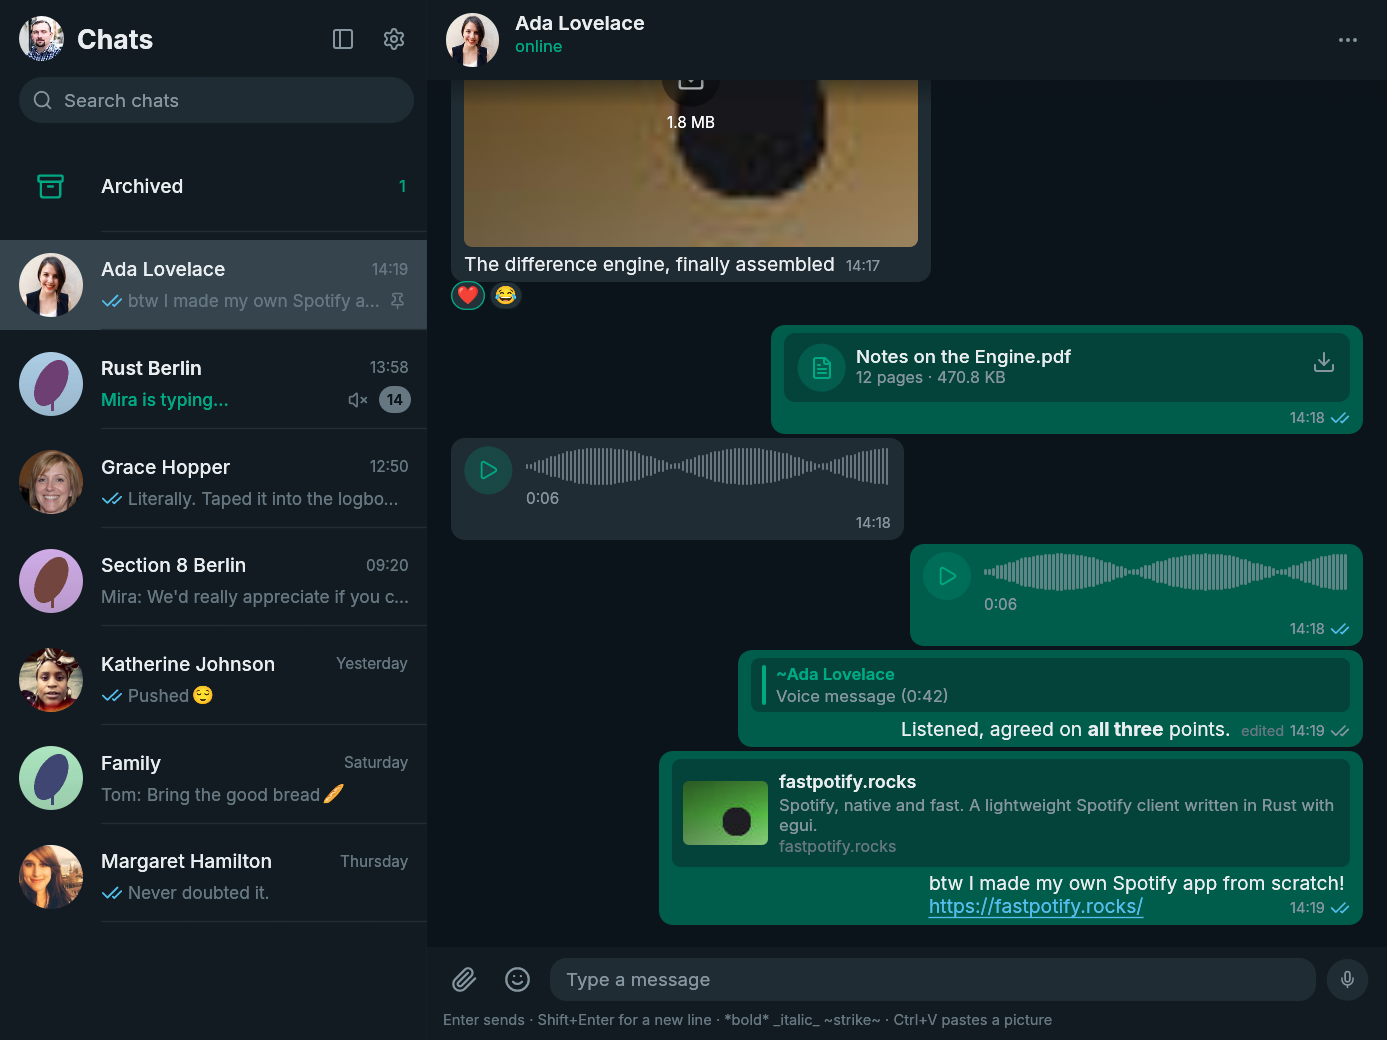
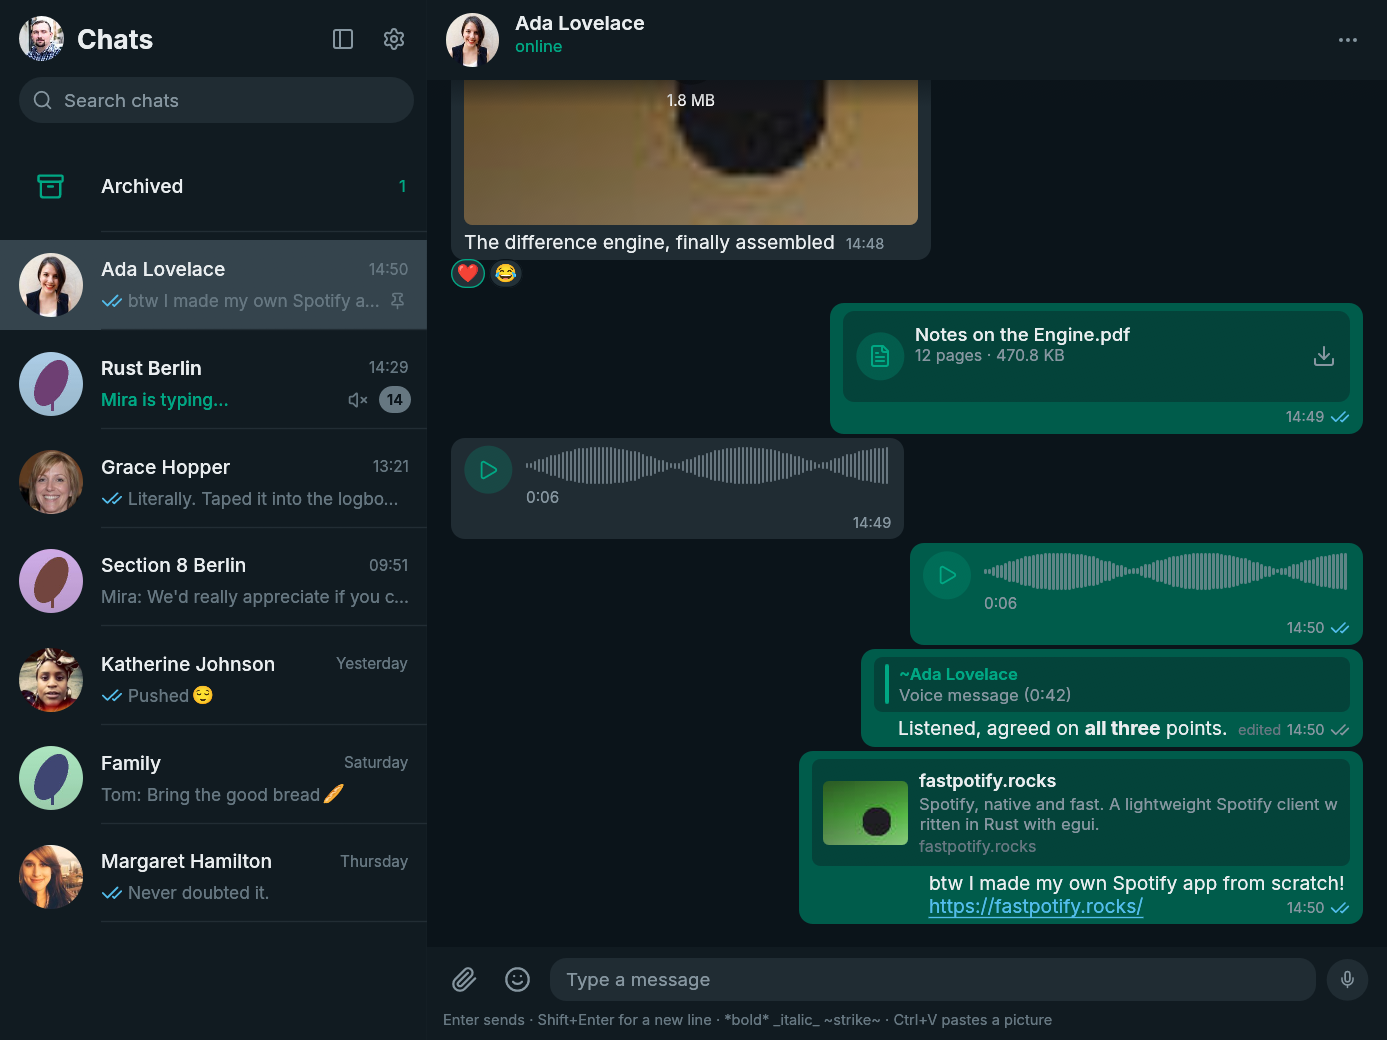
Bubbles size like the phone's
The sizing rules, finally held everywhere: a reply's quote strip and
its message are one unit, the wider of the two setting a shared width
they both span from the same left edge, the bar always at the strip's
left and the clock at the bubble's right. Document cards keep a hard
maximum, with their row allocated at exactly the card's width; the
flipped row own bubbles get had let the column ignore its width and
swallow the leftover space, which is where the giant half-empty cards
came from. A link message takes its width from its text, and the card
dresses it, text reading from the left. Huge pasted pictures no longer
overflow the GPU's texture limit. A widths probe test prints the
numbers instead of anyone guessing at pixels again.

diff --git a/src/ui/conversation.rs b/src/ui/conversation.rs
@@ -1282,11 +1282,27 @@ fn bubble_frame(
                     },
                 );
             }
-            if let Some(quoted) = &message.quoted {
-                quote_block(ui, view, message, quoted, actions);
-            }
-            let reserve = footer_width(ui, message);
-            let slot = content(ui, view, message, max_width - 20.0, reserve, actions);
+            // A quote strip and the reply under it anchor to the same left
+            // edge and share their width, as on the phone; an own bubble
+            // would otherwise right-align the strip, left-align the body,
+            // and stretch to their offset union. The footer stays outside,
+            // keeping its right edge.
+            // The strip and the reply share one width, the wider of the
+            // two (capped), the way the phone draws them; the reply's own
+            // row spans that full width with its text at the left, so no
+            // alignment fight can arise (see rich_body).
+            let slot = if let Some(quoted) = &message.quoted {
+                let available = ui.available_width();
+                let strip = quote_strip_width(ui, view, quoted);
+                let hint = quoted_content_width(ui, view, message, available);
+                let width = strip.max(hint).clamp(140.0, available.min(420.0));
+                quote_block(ui, view, message, quoted, width, actions);
+                let reserve = footer_width(ui, message);
+                content(ui, view, message, width, reserve, actions)
+            } else {
+                let reserve = footer_width(ui, message);
+                content(ui, view, message, max_width - 20.0, reserve, actions)
+            };
             footer(ui, &palette, message, slot);
         });
     ui.ctx()
@@ -1338,15 +1354,125 @@ fn bubble_frame(
     inner.response
 }
 
+/// How wide the message's own content will draw, so the quote strip above
+/// it can span the bubble the way WhatsApp draws it: as wide as the wider
+/// of the two, never a floating box narrower than the reply.
+fn quoted_content_width(ui: &egui::Ui, view: &View<'_>, message: &Message, available: f32) -> f32 {
+    let palette = view.palette;
+    let text = match &message.content {
+        Content::Text { text, .. } => Some(text),
+        Content::Image {
+            caption: Some(caption),
+            ..
+        }
+        | Content::Video {
+            caption: Some(caption),
+            ..
+        }
+        | Content::Document {
+            caption: Some(caption),
+            ..
+        } => Some(caption),
+        _ => None,
+    };
+    match (&message.content, text) {
+        (_, Some(text)) => {
+            let style = markup::Style {
+                size: BODY_SIZE,
+                color: palette.text,
+                secondary: palette.secondary,
+                link: palette.link,
+                mention: palette.accent,
+            };
+            let laid = markup::layout(ui, text, &mentions_of(view, message), &style, available);
+            let widest = laid
+                .galley
+                .rows
+                .iter()
+                .map(|row| row.row.size.x)
+                .fold(0.0, f32::max);
+            // The bubble also holds the clock beside the last line when it
+            // fits; the strip has to count that room too, or it comes up
+            // short by exactly the clock.
+            let last = laid.galley.rows.last().map_or(0.0, |row| row.row.size.x);
+            let reserve = footer_width(ui, message);
+            if last + 8.0 + reserve <= available {
+                widest.max(last + 8.0 + reserve)
+            } else {
+                widest
+            }
+        }
+        (Content::Audio { .. }, None) => available.clamp(220.0, 320.0),
+        (Content::Document { .. }, None) => available.clamp(200.0, 360.0),
+        _ => available.min(300.0),
+    }
+}
+
+/// The width a link message's bubble settles on: its own text rows (with
+/// the clock beside the last, when it fits), within the card's bounds.
+fn link_bubble_width(
+    ui: &egui::Ui,
+    view: &View<'_>,
+    message: &Message,
+    text: &str,
+    max: f32,
+    reserve: f32,
+) -> f32 {
+    let palette = view.palette;
+    let style = markup::Style {
+        size: BODY_SIZE,
+        color: palette.text,
+        secondary: palette.secondary,
+        link: palette.link,
+        mention: palette.accent,
+    };
+    let laid = markup::layout(ui, text, &mentions_of(view, message), &style, max);
+    let widest = laid
+        .galley
+        .rows
+        .iter()
+        .map(|row| row.row.size.x)
+        .fold(0.0, f32::max);
+    let last = laid.galley.rows.last().map_or(0.0, |row| row.row.size.x);
+    let with_clock = if last + 8.0 + reserve <= max {
+        widest.max(last + 8.0 + reserve)
+    } else {
+        widest
+    };
+    with_clock.clamp(200.0, max)
+}
+
+/// The width the quote strip's two lines ask for by themselves.
+fn quote_strip_width(ui: &egui::Ui, view: &View<'_>, quoted: &crate::model::Quoted) -> f32 {
+    let palette = view.palette;
+    let who = if view.me == Some(quoted.sender.as_str()) {
+        "You".to_owned()
+    } else {
+        (view.names_or)(&quoted.sender, quoted.sender_name.as_deref())
+    };
+    let summary = markup::plain(&quoted.summary, &quote_mentions(view, quoted));
+    let name_width = ui
+        .painter()
+        .layout_no_wrap(who, theme::semibold(12.5), palette.accent)
+        .size()
+        .x;
+    let summary_width = ui
+        .painter()
+        .layout_no_wrap(summary, theme::regular(12.5), palette.secondary)
+        .size()
+        .x;
+    name_width.max(summary_width) + 17.0
+}
+
 fn quote_block(
     ui: &mut egui::Ui,
     view: &View<'_>,
     message: &Message,
     quoted: &crate::model::Quoted,
+    width: f32,
     actions: &mut Vec<Action>,
 ) {
     let palette = view.palette;
-    let own = message.from_me;
     let who = if view.me == Some(quoted.sender.as_str()) {
         "You".to_owned()
     } else {
@@ -1363,7 +1489,7 @@ fn quote_block(
             bottom: 5,
         })
         .show(ui, |ui| {
-            ui.set_width(ui.available_width().min(420.0));
+            ui.set_width(width);
             let bar = |ui: &mut egui::Ui| {
                 let (bar, _) = ui.allocate_exact_size(vec2(3.0, 30.0), Sense::hover());
                 ui.painter().rect_filled(bar, 2.0, palette.accent);
@@ -1376,7 +1502,12 @@ fn quote_block(
                     widgets::rich_text(ui, &summary, theme::regular(12.5), palette.secondary);
                 });
             };
-            mirrored_row(ui, own, bar, body);
+            // The bar sits at the strip's left in both bubble kinds; own
+            // bubbles right-align and would flip a plain horizontal row.
+            ui.with_layout(Layout::left_to_right(egui::Align::Center), |ui| {
+                bar(ui);
+                body(ui);
+            });
         })
         .response;
     let response = ui
@@ -1723,7 +1854,10 @@ fn content(
     match &message.content {
         Content::Text { text, preview } => {
             if let Some(preview) = preview {
-                preview_card(ui, view, message, preview, width, actions);
+                // The card spans the text's width, as the phone draws it:
+                // the words set the bubble, the card dresses it.
+                let card = link_bubble_width(ui, view, message, text, width, reserve);
+                preview_card(ui, view, message, preview, card, actions);
             }
             rich_body(ui, view, message, text, width, Some(reserve), actions)
         }
@@ -1920,10 +2054,31 @@ fn rich_body(
     let size = laid.galley.size();
     let last_row = laid.galley.rows.last().map_or(0.0, |row| row.row.size.x);
     let inline = reserve.filter(|reserve| last_row + 8.0 + reserve <= width);
-    let allocation = match inline {
+    let mut allocation = match inline {
         Some(reserve) => vec2(size.x.max(last_row + 8.0 + reserve), size.y),
         None => size,
     };
+    if message.quoted.is_some() {
+        // The reply spans the strip's width, text anchored left (the
+        // galley paints from the allocation's start).
+        allocation.x = allocation.x.max(width);
+    } else if matches!(
+        &message.content,
+        Content::Text {
+            preview: Some(_),
+            ..
+        }
+    ) {
+        // Text under a link card spans the card's width the same way.
+        allocation.x = allocation.x.max(link_bubble_width(
+            ui,
+            view,
+            message,
+            text,
+            width,
+            reserve.unwrap_or(0.0),
+        ));
+    }
     // Remembered for the frame: a copy that runs across messages gets
     // each one's clock, date, and writer put back (see `transcript`).
     view.copy_rows
@@ -2450,13 +2605,14 @@ fn attachment(
     actions: &mut Vec<Action>,
 ) {
     let palette = view.palette;
-    let own = message.from_me;
     let response = Frame::new()
         .fill(palette.window.gamma_multiply(0.35))
         .corner_radius(CornerRadius::same(8))
         .inner_margin(Margin::symmetric(10, 8))
         .show(ui, |ui| {
-            ui.set_width(ui.available_width().clamp(200.0, 360.0));
+            let card = ui.available_width().clamp(200.0, 360.0);
+            ui.set_width(card);
+
             let disc = |ui: &mut egui::Ui| {
                 let (disc, _) = ui.allocate_exact_size(Vec2::splat(36.0), Sense::hover());
                 ui.painter().circle_filled(
@@ -2480,7 +2636,9 @@ fn attachment(
             let column = |ui: &mut egui::Ui| {
                 ui.vertical(|ui| {
                     ui.spacing_mut().item_spacing.y = 1.0;
-                    ui.set_width(ui.available_width() - 34.0);
+                    // The disc, the action icon, and two gaps take 70; the
+                    // words get exactly the rest of the card.
+                    ui.set_width(card - 70.0);
                     widgets::rich_text(ui, title, theme::medium(14.0), palette.text);
                     let detail = match &media.state {
                         MediaState::Failed(error) => format!("{error} · click to retry"),
@@ -2489,17 +2647,18 @@ fn attachment(
                     theme::text(ui, detail, theme::regular(12.0), palette.secondary);
                 });
             };
-            ui.horizontal(|ui| {
-                if own {
-                    action(ui);
-                    column(ui);
+            // A fixed left-to-right row at exactly the card's width: the
+            // flipped row own bubbles get otherwise lets the column ignore
+            // its width and swallow the leftover space.
+            ui.allocate_ui_with_layout(
+                vec2(card, 52.0),
+                Layout::left_to_right(egui::Align::Center),
+                |ui| {
                     disc(ui);
-                } else {
-                    disc(ui);
                     column(ui);
                     action(ui);
-                }
-            });
+                },
+            );
         })
         .response;
     let auto = ui.is_rect_visible(response.rect)
@@ -2513,6 +2672,12 @@ fn attachment(
             message: message.id.clone(),
         });
     }
+    ui.ctx().data_mut(|data| {
+        data.insert_temp(
+            bubble_id(&view.chat.id, &message.id).with("card"),
+            response.rect,
+        );
+    });
     let response = ui
         .interact(
             response.rect,
@@ -2911,9 +3076,40 @@ fn pending_strip(app: &mut App, ui: &mut egui::Ui) {
                         texture,
                     } => {
                         let handle = texture.get_or_insert_with(|| {
+                            // A huge paste (a full screenshot, say) exceeds
+                            // the GPU's texture side; the thumbnail only
+                            // needs so many pixels anyway.
+                            let image = if *width > 1024 || *height > 1024 {
+                                let scale = 1024.0 / (*width).max(*height) as f32;
+                                let (w, h) = (
+                                    ((*width as f32 * scale) as u32).max(1),
+                                    ((*height as f32 * scale) as u32).max(1),
+                                );
+                                match image::RgbaImage::from_raw(
+                                    *width as u32,
+                                    *height as u32,
+                                    rgba.to_vec(),
+                                ) {
+                                    Some(full) => {
+                                        let small = image::imageops::resize(
+                                            &full,
+                                            w,
+                                            h,
+                                            image::imageops::FilterType::Triangle,
+                                        );
+                                        egui::ColorImage::from_rgba_unmultiplied(
+                                            [w as usize, h as usize],
+                                            &small,
+                                        )
+                                    }
+                                    None => egui::ColorImage::example(),
+                                }
+                            } else {
+                                egui::ColorImage::from_rgba_unmultiplied([*width, *height], rgba)
+                            };
                             ui.ctx().load_texture(
                                 format!("pending-picture-{index}"),
-                                egui::ColorImage::from_rgba_unmultiplied([*width, *height], rgba),
+                                image,
                                 egui::TextureOptions::LINEAR,
                             )
                         });

diff --git a/src/demo.rs b/src/demo.rs
@@ -1272,6 +1272,36 @@ mod tests {
         assert!(app.pending.is_empty(), "sent with the caption");
     }
 
+    #[test]
+    fn widths_probe() {
+        let mut app = app();
+        let ctx = egui::Context::default();
+        app.attach(&ctx);
+        render(&mut app, &ctx);
+        render(&mut app, &ctx);
+        let chat = sample_ids()[0].to_owned();
+        for id in ["ada-doc", "you-voice", "ada-reply", "ada-link", "ada-photo"] {
+            let key = crate::ui::conversation::bubble_id(&chat, id).with("rect");
+            if let Some(rect) = ctx.data(|data| data.get_temp::<egui::Rect>(key)) {
+                eprintln!(
+                    "{id}: {:.0} wide, {:.0}..{:.0}",
+                    rect.width(),
+                    rect.left(),
+                    rect.right()
+                );
+            }
+            let card = crate::ui::conversation::bubble_id(&chat, id).with("card");
+            if let Some(rect) = ctx.data(|data| data.get_temp::<egui::Rect>(card)) {
+                eprintln!(
+                    "  card: {:.0} wide, {:.0}..{:.0}",
+                    rect.width(),
+                    rect.left(),
+                    rect.right()
+                );
+            }
+        }
+    }
+
     /// Part of a message can be swept with the pointer and copied, like any
     /// text on a page.
     #[test]
@@ -1379,7 +1409,14 @@ mod tests {
         };
         // Out of the window entirely, below it, plus a spurious PointerGone
         // like the platform sends on leaving.
-        let below = egui::pos2(from.x, 1100.0);
+        let centre = app
+            .selection_view
+            .lock()
+            .expect("the view rect")
+            .expect("the conversation was drawn")
+            .center()
+            .x;
+        let below = egui::pos2(centre, 1100.0);
         let mut frames: Vec<Vec<egui::Event>> = vec![
             vec![egui::Event::PointerMoved(from), press(from, true)],
             vec![egui::Event::PointerMoved(below), egui::Event::PointerGone],
